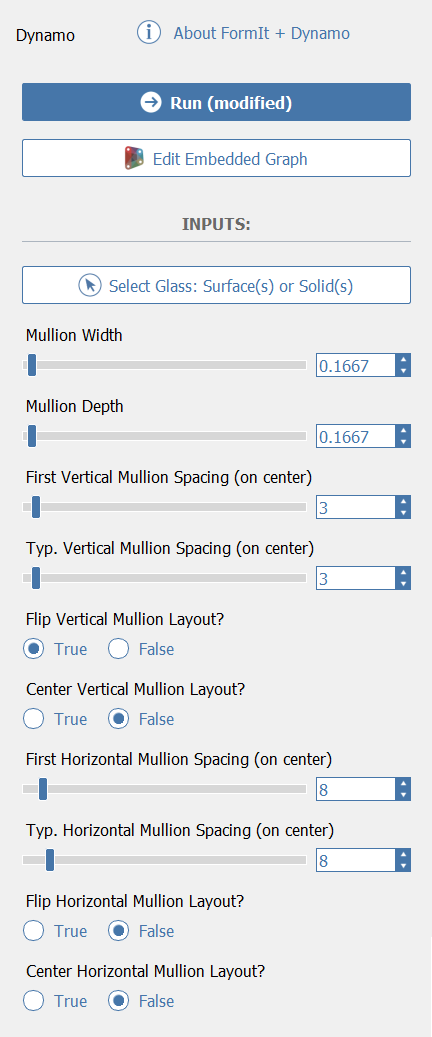
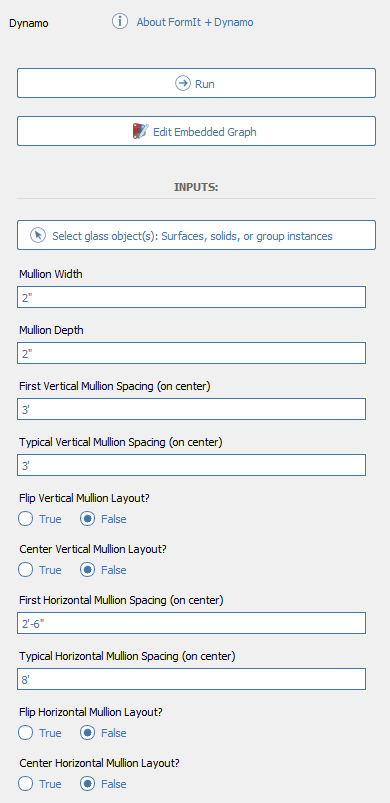
GitBook: [#37] Editing Storefront image

Changed region(s): [[0.0308, 0.0, 0.9538, 0.9963], [0.8923, 0.467, 0.9538, 0.5915], [0.8923, 0.3425, 0.9538, 0.3736]]

diff --git a/formit-primer/part-ii/2.6-dynamo-formit-nodes.md b/formit-primer/part-ii/2.6-dynamo-formit-nodes.md
@@ -21,7 +21,7 @@ _While FormIt comes with a library of OOTB graphs in the **Dynamo Samples** fold
 5. Click on **Select Folder** and then **OK**, and you will be brought back to FormIt.
 6. In the folder dropdown at the top of the **Dynamo Palette**, select the **FormIt Primer Graphs** folder we just added.
 
-![](<../../.gitbook/assets/0 (21) (1).png>)
+![](<../../.gitbook/assets/0 (21).png>)
 
 ## **SendToFormIt** **Node**
 
@@ -37,11 +37,11 @@ _For any Dynamo graph to work with FormIt, it must have at least one_ _**SendToF
 2. In the **Dynamo Palette**, find the **Stairs by Top Edge** tile, and click on the small drop-down arrow on the tile’s right edge or right-click the tile.
 3. Select **Edit Source Graph**. This will automatically launch Dynamo and open the graph we want to edit.
 
-![](<../../.gitbook/assets/2 (22) (1).png>)
+![](<../../.gitbook/assets/2 (22).png>)
 
 2 – Once Dynamo and the graph have opened, zoom into the area shown below, containing the right-most green and purple groups.
 
-![](<../../.gitbook/assets/3 (19) (1).png>)
+![](<../../.gitbook/assets/3 (19).png>)
 
 _**Note:**_ _Dynamo graphs flow from left to right, and so you will typically find the output nodes on the far right side of the graph._
 
@@ -53,7 +53,7 @@ _**Note:**_ _Dynamo graphs flow from left to right, and so you will typically fi
 4. Rename the **SendToFormIt** node to **SendToFormIt.Stairs**.
 5. Connect the two (2) inputs of the new **SendToFormIt.Stairs** node as shown in the image below.
 
-![](<../../.gitbook/assets/4 (18) (1).png>)
+![](<../../.gitbook/assets/4 (18).png>)
 
 _**Note:**_ _Although we are only using the_ _**SetAsMesh**_ _options node, which determines whether the geometry is sent to FormIt as an object or as a mesh,_ _there are a number of_ _**FormItGroupOptions**_ _node available. Each one controls various properties of the geometry sent to FormIt; feel free to experiment with some of the others!_
 
@@ -65,7 +65,7 @@ _**Note:**_ _Although we are only using the_ _**SetAsMesh**_ _options node, whic
 4. Select the stair, and note that its group name matches the name of the Dynamo graph.
 5. Now, double-click to edit the group, and select the nested stair geometry group. Notice that that group’s name matches the name we gave to the node in Dynamo.
 
-![](<../../.gitbook/assets/5 (17) (1).png>)
+![](<../../.gitbook/assets/5 (17).png>)
 
 _**Note:**_ _Don’t worry about the stair’s exact location, we will fine tune that in the following section._
 
@@ -87,7 +87,7 @@ _**Note:**_ _If you edit a Dynamo graph directly from its_ _**Properties Palette
 
 4 – This time, we want to add some selection nodes, which are often located near the beginning, or left, side of the graph. Zoom into the area shown below.
 
-![](<../../.gitbook/assets/7 (9) (1).png>)
+![](<../../.gitbook/assets/7 (9).png>)
 
 5 – To add the new selection nodes:
 
@@ -97,7 +97,7 @@ _**Note:**_ _If you edit a Dynamo graph directly from its_ _**Properties Palette
 4. Right-click on each node, and ensure that **Is Input** is checked. It should be by default, but if it is not, these nodes will not be recognized by FormIt.
 5. Wire up the new selection nodes as shown in the below image. They each only have one (1) connection.
 
-![](<../../.gitbook/assets/8 (11) (1).png>)
+![](<../../.gitbook/assets/8 (11).png>)
 
 _**Note:**_ _The new nodes may have warnings, causing them to turn yellow as seen above. You can ignore these for now. The warnings are because the nodes are expecting geometry from FormIt, but have not received any yet (because we just added them!)._
 
@@ -125,7 +125,7 @@ _**Note:**_ _If you want to add any_ _Dynamo Input nodes to your graph, it is ve
 4. The next prompt will be the name of our other selection node, **Select Bottom Floor**. Select the ground floor slab of the main encode building, then click on the checkmark.
 5. After the stair is created, notice that in the **Properties Palette** you now have the option to re-select geometry for either of the selection nodes. Also note that the sliders corresponding to the input nodes we deleted, **Floor-to-Floor Height** and **Stair Width**, are no longer there – they are now calculated from the selected geometry.
 
-![](<../../.gitbook/assets/11 (8) (1).png>)
+![](<../../.gitbook/assets/11 (8).png>)
 
 _**Note:** If you change either the position of the top edge or the height of the bottom floor and re-run the graph, the stairs will update accordingly. It is usually good practice to avoid manually moving any Dynamo-generated geometry that depends on FormIt selections, as that can change its relationship to the selected geometry used to create it. Sometimes grouping the Dynamo group and the selection geometry together will help keep them connected and avoid any issues._
 
@@ -138,6 +138,6 @@ _**Note:** If you change either the position of the top edge or the height of th
 5. Added a central stringer for each staircase using **Sweep**.
 6. Placed all the stairs, strings, and railing all on a new layer called **Encode Main Building – Stairs**.
 
-![Finished stairs, views in section.](<../../.gitbook/assets/12 (7) (1).png>)
+![Finished stairs, views in section.](<../../.gitbook/assets/12 (7).png>)
 
 ![Finished stairs, as visible from the Eye Level – Plaza scene.](<../../.gitbook/assets/13 (7) (2).png>)

diff --git a/tool-library/storefront-curtainwall-mullion-system.md b/tool-library/storefront-curtainwall-mullion-system.md
@@ -6,7 +6,7 @@
 
 The ability to quickly create storefront/curtainwall mullion systems in FormIt is powered by Dynamo. You can find the Storefront Curtainwall system in the Dynamo Samples directory in the Dynamo panel:
 
-![](<../.gitbook/assets/storefront-curtainwall-button (1) (1).png>)
+![](../.gitbook/assets/storefront-curtainwall-button.png)
 
 ## Selecting "Glass" For Mullion System
 
@@ -31,10 +31,10 @@ When selecting geometry for a Dynamo graph in FormIt, certain organizational tri
 
 * Put the glass in a Group, and use the Group as the selection for the Storefront/Curtainwall script. That way, it's easier to edit the glass profile after the mullions have been generated, and if the glass is heavily modified between runs and the face IDs have changed, the Group ensures that the script will always find the glass - because it's using the Group ID, not the face ID.
 * If you're planning on copying and pasting the results of the mullion system to other places in your model, it's best to have the glass and the resulting mullions contained in a Group This will also prevent issues with the selection node not knowing which glass instance to use when just the resulting mullion Group is copied and pasted.
-  * Put your glass in a Group first. Double-click it to select the glass, and hit G or use the Group commands in the context menu or toolbar.&#x20;
+  * Put your glass in a Group first. Double-click it to select the glass, and hit G or use the Group commands in the context menu or toolbar.
   * Select the resulting Group, and put it in another Group.
   * Double-click to enter the first Group. This is the "container" for both the glass and the resulting mullions.
-  * Click the Storefront Curtainwall thumbnail, and use the glass Group as the selection.&#x20;
+  * Click the Storefront Curtainwall thumbnail, and use the glass Group as the selection.
   * After the script runs, you can exit the Group and copy/paste the container around as needed. You can edit any of the instances (adjusting the glass shape or parameters) without issue.
 
 ## Mullion System Options
@@ -43,18 +43,18 @@ Once you select glass and run the script, you'll get a result in the FormIt canv
 
 ![](<../.gitbook/assets/storefront-curtainwall-parameters (1).png>)
 
-* **Run**: If you modify the shape of the glass and want to re-run the graph to update the mullion results, click this.&#x20;
+* **Run**: If you modify the shape of the glass and want to re-run the graph to update the mullion results, click this.
 * **Edit Embedded Graph**: Edit the Dynamo script that's generating the geometry. This script is embedded in the FormIt file and is specific to this Group.
 * **Select Glass (Surface or Solid)**: Click this to update the selection to a different piece of glass around which to generate mullions.
 
-The script will use default values for its first run, so you'll want to adjust these for your unique use case. All values will use the current FormIt units.
+The script will use default values for its first run, so you'll want to adjust these for your unique use case. All values will use the units set by the FormItLengthString node.
 
 * **Mullion Width + Depth**: The width and depth of all mullion elements.
 * **Vertical Mullion Spacing**: The distance, on center, between each vertical mullion.
 * **Flip Vertical Mullion Layout**: The script starts the vertical mullion spacing from one side, chosen arbitrarily. If the result starts the mullion spacing on the wrong side for your use case, set this to True to flip the layout to start on the opposite site.
 * **Center Vertical mullion Layout**: Instead of starting the vertical mullion spacing calculation at one end of the glass, start the calculation in the middle, creating a symmetrical layout of vertical mullions.
 * **First Horizontal Mullion Spacing**: Sets the first horizontal mullion spacing from the bottom. Useful if you need a row of shorter glazing modules at the bottom, separate from the rest of the horizontal mullion spacing.
-* **Horizontal Mullion Spacing**: The typical horizontal mullion spacing, on center, starting after the first mullion as outlined above.&#x20;
+* **Horizontal Mullion Spacing**: The typical horizontal mullion spacing, on center, starting after the first mullion as outlined above.
 * **Flip Horizontal Mullion Layout**: If you want the horizontal mullion layout to start at the top instead of the bottom, set this to True.
 * **Center Horizontal Mullion Layout**: Instead of starting the horizontal mullion spacing calculation at the bottom or top of the glass, start the calculation in the middle, creating a symmetrical layout of horizontal mullions.
 

diff --git a/formit-primer/part-i/visual-settings.md b/formit-primer/part-i/visual-settings.md
@@ -16,14 +16,14 @@ _In these next steps, we will learn how to use_ _**Scenes**_ _to create an anima
 4. Click on the **+** icon to create a new scene from our current view.
 5. Rename it to **Aerial View 1**, and match the other **Scene Properties** to what is shown in the image below.
 
-![](<../../.gitbook/assets/0 (17).png>)
+![](<../../.gitbook/assets/0 (17) (1).png>)
 
 2 - To create the second **Scene** and then animate between them:
 
 1. Adjust the camera to a new position so that you are looking at the house from a different angle. Create a new **Scene** named **Aerial View 2** using the same process we followed in the previous step.
 2. Click the **Play** button. After the set **Pause Time** of **2 Seconds**, the animation will start slowly moving back and forth between the two scenes. This will continue until you click the **Stop** button to stop the animation.
 
-![](<../../.gitbook/assets/1 (12).png>)
+![](<../../.gitbook/assets/1 (12) (1).png>)
 
 _**Note:**_ _You can adjust the_ _**Pause Time**,_ _**Transition Time**, and_ _**Camera Speed**_ _using the settings at the bottom of the_ _**Scene Properties**. Try adding some more scenes and playing with these settings to customize your animation._
 
@@ -39,7 +39,7 @@ _Now we are going to create another scene with some customized **Visual Styles**
 2. Turn on **Ambient Shadows (DA)**.
 3. Turn on **Monotone Surfaces (DM)**. This makes an abstract black and white image without any materials.
 
-![](<../../.gitbook/assets/2 (20).png>)
+![](<../../.gitbook/assets/2 (20) (1).png>)
 
 3 – To customize some settings in the **Edge Tab**:
 
@@ -48,7 +48,7 @@ _Now we are going to create another scene with some customized **Visual Styles**
   2. Turn on the **Extend Edges (DX).**
   3. Adjust the sliders to lighten the **Silhouettes** contrast to **30%**.
 
-![](<../../.gitbook/assets/3 (11).png>)
+![](<../../.gitbook/assets/3 (11) (1).png>)
 
 4 - To customize some settings in the **Environment Tab**:
 
@@ -59,7 +59,7 @@ _Now we are going to create another scene with some customized **Visual Styles**
 
 5 - Create a new scene called **Customized Scene** to save these settings. Now you can switch back and forth between the **Scenes** to reset the graphic settings.
 
-![](<../../.gitbook/assets/5 (6).png>)
+![](<../../.gitbook/assets/5 (6) (1).png>)
 
 _**Note**: If you uncheck the_ _**Camera**_ _property of the new scene, you can use it to only toggle on the visual settings we just created without move the camera position. Give it a try by going to one of your previous Aerial scenes, and then double-clicking on the_ _**Customized Scene**_ _and watching what happens!_
 

diff --git a/formit-primer/part-i/adding-floors-with-levels.md b/formit-primer/part-i/adding-floors-with-levels.md
@@ -13,7 +13,7 @@ _If you did not complete the last section, download and open the **1.4 - Add Flo
 3. Double-click each level’s current elevation to modify them to: **0’-0", 2'-2", 4’-6"** and **17’-8"**.
 4. Double-click each level’s current name and rename them: **Ground, Terrace, Main Building,** and **Top of Roof.**
 
-![](<../../.gitbook/assets/0 (16).png>)
+![](<../../.gitbook/assets/0 (16) (1).png>)
 
 _**Note**: You can click the_ _**++**_ _icon to create multiple levels, with a specified and uniform distance apart. This is handy for multi-story buildings_.
 
@@ -28,8 +28,8 @@ _In the previous steps, we only created levels. Now we are ready to apply those 
 3. Now the currently selected geometry has three levels applied to it (**Main Building, Terrace,** and **Ground**), but for this exercise, we only want to apply **Ground**. Uncheck **Main Building** and **Terrace**.
 4. This process ensures that only the area intersected by **Ground** is considered for the gross area calculation, which can be seen in the **Area by Level** field.
 
-![](<../../.gitbook/assets/1 (4).png>)
+![](<../../.gitbook/assets/1 (4) (1).png>)
 
 _**Note**: If you do not see blue level lines on your mass, type_ _**DL**_ _to_ _**Display Levels**._
 
-![](<../../.gitbook/assets/2 (3).png>)
+![](<../../.gitbook/assets/2 (3) (1).png>)

diff --git a/plugins/how-to-develop-plugins/your-first-plugin/plugin-playground.md b/plugins/how-to-develop-plugins/your-first-plugin/plugin-playground.md
@@ -18,7 +18,7 @@ Here are some of the benefits of developing in the Plugin Playground:
 
 You can think of the Plugin Playground as a plugin that makes plugins. This is because you install it as you would install any other plugin. Open the Plugin Manager, and you will find the Plugin Playground under the Recommended list. Use the toggle to install the Plugin Playground.
 
-![](<../../../.gitbook/assets/01-install playgground formit (1).gif>)
+![](<../../../.gitbook/assets/01-install playgground formit.gif>)
 
 Once it's installed, you can access the Plugin Playground through the ![](<../../../.gitbook/assets/image (25).png>) icon in the right menu.
 

diff --git a/formit-primer/README.md b/formit-primer/README.md
@@ -1,6 +1,6 @@
 # FormIt Primer
 
-![](../.gitbook/assets/b5030b43-df24-4259-ad6a-94bcad61bc78.png)
+![](<../.gitbook/assets/b5030b43-df24-4259-ad6a-94bcad61bc78 (1).png>)
 
 ## Content
 
@@ -10,7 +10,7 @@
 
 [**Part II**](https://windows.help.formit.autodesk.com/building-the-farnsworth-house/part-ii) covers some more advanced tools using a pre-modeled fictional architectural project to explore advanced modeling features, analytical tools, and computational tools to help you take FormIt to the next level.
 
-![](../.gitbook/assets/screen1.jpg)
+![](<../.gitbook/assets/screen1 (1).jpg>)
 
 ## Credits
 

diff --git a/formit-capabilities/formit-+-revit.md b/formit-capabilities/formit-+-revit.md
@@ -37,7 +37,7 @@ If you're working in both early stage and detailed design, you can quickly itera
 * Design and model in FormIt and send your design back to the same Revit project while in the same session.
 * Reference a FormIt model in Revit using the _Import CAD_ tool and continue with visualization and detailing in Revit.
 
-![](<../.gitbook/assets/formit revit.jpg>)
+![](../.gitbook/assets/revit-formit.jpg)
 
 ### **3D Sketch and Send to Revit for Design Iteration** <a href="#3d-sketch-and-send-to-revit-for-design-iteration" id="3d-sketch-and-send-to-revit-for-design-iteration"></a>
 

diff --git a/formit-primer/part-ii/2.2-advanced-modeling-tools-shell-and-cover.md b/formit-primer/part-ii/2.2-advanced-modeling-tools-shell-and-cover.md
@@ -151,6 +151,6 @@ _**Note:**_ _If you want to learn more about advanced uses of Dynamo within Form
 
 Feel free to put your own creative touches to the model, and explore some of the other advanced modeling tools we did not get to in this chapter! You can compare your creation to our finished sample model by downloading and opening the **Encode Campus Sample File\_Completed.axm** from the **Encode Model Data Set**.
 
-![Scene in completed model.](<../../.gitbook/assets/15 (1) (1).png>)
+![Scene in completed model.](<../../.gitbook/assets/15 (1).png>)
 
 \_\_

diff --git a/formit-primer/part-i/work-with-images-and-the-ground-plane.md b/formit-primer/part-i/work-with-images-and-the-ground-plane.md
@@ -8,7 +8,7 @@ _If you did not complete the last section, download and open the_ _**1.2 - Proje
 
 The provided **plan.png** is an image of a plan printed on a 24” x 26” Sheet (ARCH D) which is 3600 pixels wide by 2400 pixels high. By knowing the drawing scale (¼"=1'-0") and the image dimensions you can calculate that 1’ = 25 pixels, which means that the image should be 144'x96' when imported into FormIt at full scale.
 
-![](<../../.gitbook/assets/0 (1) (1).png>)
+![](<../../.gitbook/assets/0 (1) (2).png>)
 
 ## **Import an Image to scale**
 

diff --git a/plugins/how-to-develop-plugins/your-first-plugin/adding-your-own-features.md b/plugins/how-to-develop-plugins/your-first-plugin/adding-your-own-features.md
@@ -63,13 +63,13 @@ document.getElementById("CreateCylinderBtn").addEventListener("click", ()=>
 });
 ```
 
-![](<../../../.gitbook/assets/image (17).png>)
+![](<../../../.gitbook/assets/image (82).png>)
 
 ### Running and previewing
 
 When you’re ready to see the results, click the Play button ![](<../../../.gitbook/assets/image (81).png>) again and you will see your updates to the plugin in the same panel.
 
-![](<../../../.gitbook/assets/image (49).png>)
+![](<../../../.gitbook/assets/image (14).png>)
 
 ### FormIt plugins API
 

diff --git a/tool-library/cover-sweep-loft.md b/tool-library/cover-sweep-loft.md
@@ -37,6 +37,6 @@ Enclose open edges, make geometry changes along a path of edges, and connect mul
 3.  Select the face or edges you want to loft on the second object. Repeat this step for additional objects.
 
     ![](../.gitbook/assets/loft2.png)
-4.  Click the **Finish** icon. ![](<../.gitbook/assets/guid-e23d787e-5f90-4de1-b690-03306f0cb4b2-low (1) (1) (1) (1).png>)
+4.  Click the **Finish** icon. ![](<../.gitbook/assets/guid-e23d787e-5f90-4de1-b690-03306f0cb4b2-low (1) (2).png>)
 
     ![](../.gitbook/assets/loft3.png)

diff --git a/formit-capabilities/multiple-clients.md b/formit-capabilities/multiple-clients.md
@@ -4,4 +4,4 @@ Use FormIt to design anytime, anywhere.
 
 In addition to [Windows](https://formit.autodesk.com/download) and [Web](https://formit.autodesk.com/app) apps, FormIt runs on Apple iPad for intuitive and fast touch-based iteration, with support for Apple Pencil. Combine FormIt with other powerful mobile apps like Autodesk Sketchbook Pro and create entire presentations on the go!
 
-![FormIt on Apple iPad](<../.gitbook/assets/ipad scenes.png>)
+![FormIt on Apple iPad](<../.gitbook/assets/ipad scenes (1).png>)
